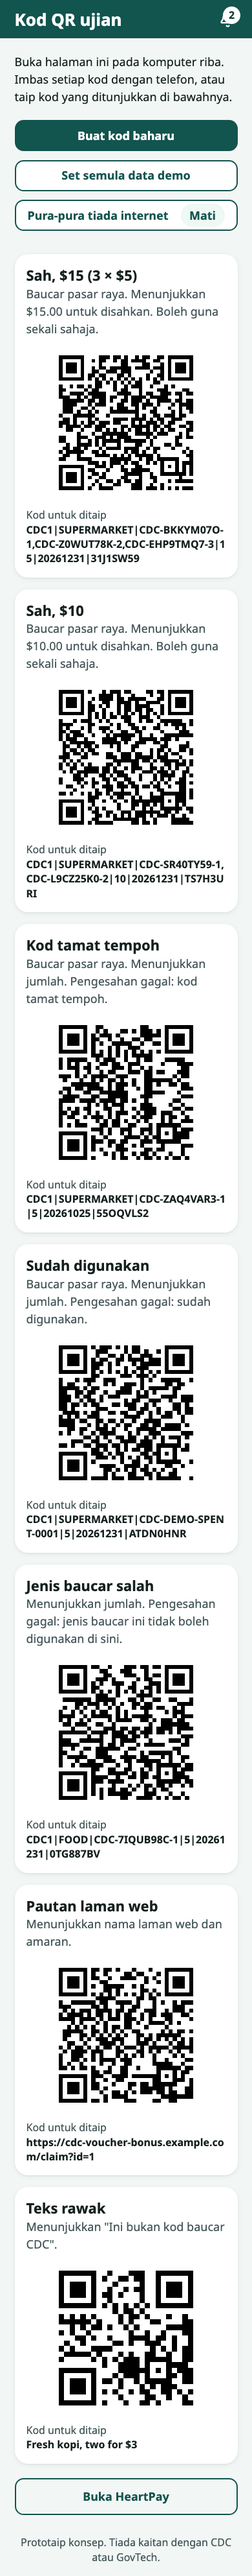
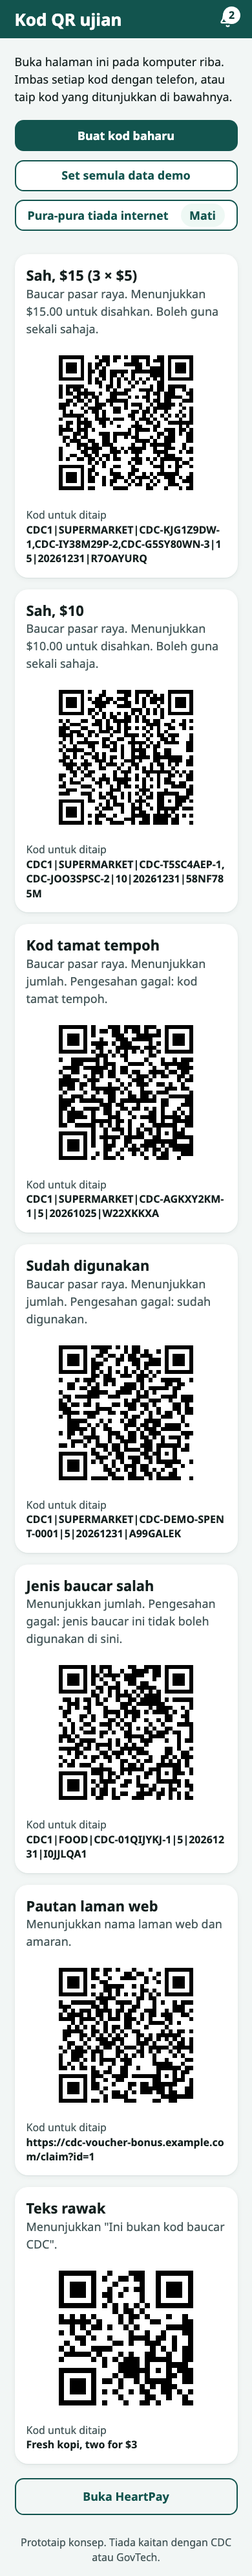
Test report for fix-voucher-type
Claude-Session: https://claude.ai/code/session_01WDaFZiUrLp4jo1XBo3HbDi

diff --git a/reviews/fix-voucher-type-test.md b/reviews/fix-voucher-type-test.md
@@ -1,0 +1,35 @@
+# Test report: post-Phase-8 fix `fix-voucher-type` (not a phase; phases.md status table untouched)
+
+## Automated runs (branch fix-voucher-type)
+| Command | Result |
+|---|---|
+| `npm run lint` | pass, no errors |
+| `npm run test` | pass: 14 files, 133 tests |
+| `npm run build` | pass, no type errors (only the existing >500 kB chunk warning) |
+| `npm run e2e` | pass: 65 passed, 0 failed (includes new `e2e/fix-voucher-type.spec.ts`, 5 tests) |
+
+## Checks
+| # | Check | Result | Evidence |
+|---|---|---|---|
+| 1a | Payload `CDC1\|<type>\|<ids>\|<amount>\|<expiry>\|<nonce>`, SUPERMARKET/FOOD | pass | `parseQr.ts` requires 6 parts, `TYPES` map, unknown type gives `not_cdc`; `parseQr.test.ts` updated; /demo test asserts `CDC1\|FOOD\|` and `CDC1\|SUPERMARKET\|` |
+| 1b | `Voucher.type`, `VoucherType`, merchant `acceptedVoucherType` = supermarket | pass | `types.ts`, `seed.ts` |
+| 1c | `wrong_merchant` renamed `wrong_voucher_type`; OTHER/USED shortcuts removed; already_used from store only | pass | `redeem.ts` diff; seed holds a pre-used voucher `CDC-DEMO-SPENT-0001`; e2e "demo Already used code fails from the voucher store" passes |
+| 1d | Manual entry | pass | Uses same `parseQr`; e2e types a 6-part code and reaches the sheet in all 4 languages |
+| 1e | Failure message in EN/ZH/MS/TA, accepted type read from merchant setting, still leads "No money was taken" | pass | `PaymentFailed.tsx` uses `state.merchant.acceptedVoucherType`; screenshots `{en,zh,ms,ta}-failed.png` (en viewed: headline, big "No money was taken", reason, "ask for a Supermarket voucher") |
+| 1f | Type on result sheet and Details | pass | `ResultSheet.tsx` badge plus Details row; `*-sheet.png`, e2e assertion |
+| 1g | /demo cards, Food = "Wrong voucher type", exact description, fresh IDs per load | pass | en.ts `demo.e.wrongType` = "Shows the amount. Confirm fails: this type of voucher can't be used here." (exact match); `demoQr.ts` generates IDs from timestamp per load (existing `ids()`), used card uses fixed store ID by design |
+| 2 | Nav "Accept payment" + ZH 接受付款 / MS Terima bayaran / TA பணம் பெறுக; 5 tabs fit at 390px, ≥48px, icon+text, route /pay | pass | e2e asserts 5 links, height ≥48, inside 0..390, svg + text, in all 4 languages; `ta-nav.png` viewed (wraps onto two lines but fits). No other bare "Pay" labels found (grep of dictionaries; BottomNav uses `nav.pay` as the only name, aria-label is `nav.label`) |
+| 3 | Docs | pass | plan.md, tests.md, phases.md note "Post-Phase-8 fixes (not a phase; status table unchanged)"; status table not in diff |
+| 4 | Counts | pass | see table above |
+| 5 | Grep for "wrong shop", "wrong merchant", wrong_merchant, "can't be used at this shop", CDC-OTHER, CDC-USED | pass | Remaining hits only: `changes.md:74` (known, historical), `phases.md:93` (the fix note itself), `reviews/phase-4-test.md:18` (old report mentioning `wrong_merchant`, historical). None in src, dictionaries, public/captions |
+| 6 | 16 screenshots in `reviews/screenshots/fix-voucher-type/` | pass | 16 files: demo, failed, nav, sheet x 4 languages |
+| 7 | Old 5-part code `CDC1\|ids\|10\|20261231\|N1` | pass | Throwaway Playwright run: shows "This is not a CDC voucher code / No money was taken. / Scan again"; no page errors |
+| 8 | Old localStorage save (no `acceptedVoucherType`, old voucher shape) | pass | Same-day save was discarded and re-seeded; merchant now has `acceptedVoucherType: 'supermarket'`; login and /pay load with no page errors |
+
+## Notes (not failures)
+- Re-running e2e regenerates tracked screenshots in other `reviews/screenshots/phase-*` folders (byte diffs only); I reverted those and committed only the fix-voucher-type files and this report.
+- The old-format check used a temporary spec, deleted afterwards (not added to the suite).
+- Tamil nav label wraps to two lines at 390px; it fits and meets the 48px height.
+- Wrong-voucher-type message for a Food-accepting merchant is only covered by unit logic; the app has no way to change `acceptedVoucherType` in the UI.
+
+## Verdict: PASS
